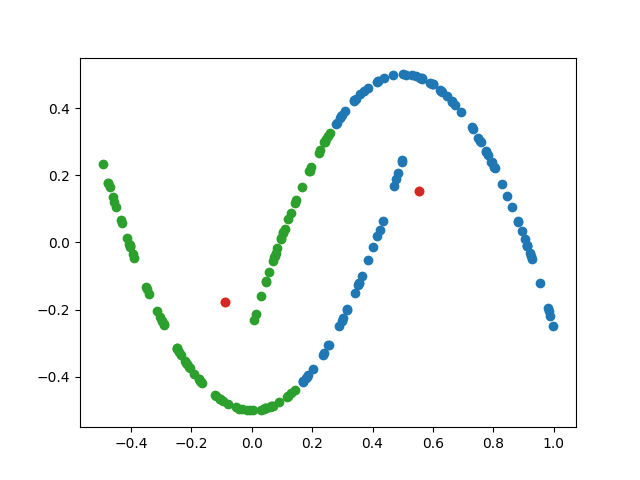
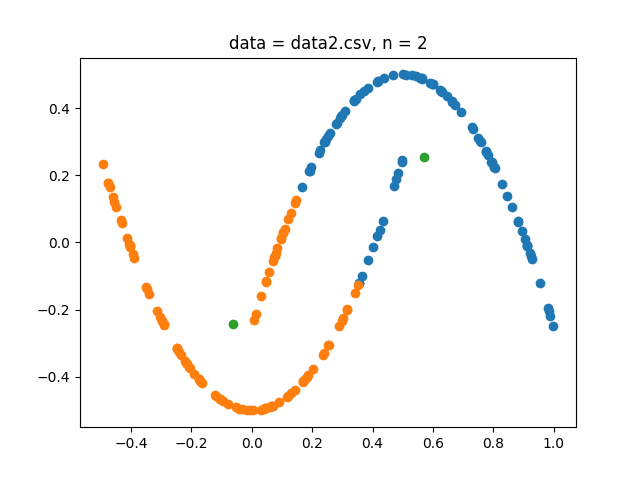
ver 2.1 fixed

diff --git a/ex05/k_okamori/ex05_mfcc_okamori.py b/ex05/k_okamori/ex05_mfcc_okamori.py
@@ -99,11 +99,12 @@ class Mfcc:
 
     # 結果のプロット
     def draw_spec(self):
-        self.fig = plt.figure(figsize=(6.4, 6.4))  # グラフ領域の確保
-        ax1 = self.fig.add_subplot(411)  # Original Signal
-        ax2 = self.fig.add_subplot(412)  # MFCC
-        ax3 = self.fig.add_subplot(413)  # dMFCC
-        ax4 = self.fig.add_subplot(414)  # ddMFCC
+        self.fig = plt.figure(figsize=(8.0, 10.0))  # グラフ領域の確保
+        ax1 = self.fig.add_subplot(511)  # Original Signal
+        ax2 = self.fig.add_subplot(512)  # Mell Filter Bank
+        ax3 = self.fig.add_subplot(513)  # MFCC
+        ax4 = self.fig.add_subplot(514)  # dMFCC
+        ax5 = self.fig.add_subplot(515)  # ddMFCC
         wave_length = len(self.wave) // self.samplerate  # 音源データの長さ
 
         im1 = ax1.imshow(self.spec, extent=[0, wave_length, 0, self.samplerate / 2],
@@ -113,26 +114,32 @@ class Mfcc:
         ax1.set_xlabel("time[s]")         # x軸ラベルの追加
         ax1.set_ylabel("Frequency[kHz]")  # y軸ラベルの追加
 
-        im2 = ax2.imshow(self.mfcc, extent=[0, wave_length, 0, MFCC_DIM],
-                         cmap="rainbow", aspect="auto", origin="lower")  # スペクトログラムの描画
-        self.fig.colorbar(im2, ax=ax2)
-        ax2.set_title("MFCC")             # タイトルの追加
-        ax2.set_xlabel("time[s]")         # x軸ラベルの追加
-        ax2.set_ylabel("MFCC")            # y軸ラベルの追加
+        for i in range(self.mel_filter_bank.shape[0]):
+            ax2.plot(np.arange(0, self.samplerate // 2, self.samplerate // 2 /
+                     self.mel_filter_bank.shape[1]), self.mel_filter_bank[i])  # プロット
+        ax2.set_title("Mel Filter Bank")   # タイトルの追加
+        ax2.set_xlabel("Frequency[Hz]")         # x軸ラベルの追加
 
-        im3 = ax3.imshow(self.d_mfcc, extent=[0, wave_length, 0, MFCC_DIM],
+        im3 = ax3.imshow(self.mfcc, extent=[0, wave_length, 0, MFCC_DIM],
                          cmap="rainbow", aspect="auto", origin="lower")  # スペクトログラムの描画
         self.fig.colorbar(im3, ax=ax3)
-        ax3.set_title("ΔMFCC")            # タイトルの追加
+        ax3.set_title("MFCC")             # タイトルの追加
         ax3.set_xlabel("time[s]")         # x軸ラベルの追加
-        ax3.set_ylabel("ΔMFCC")           # y軸ラベルの追加
+        ax3.set_ylabel("MFCC")            # y軸ラベルの追加
 
-        im4 = ax4.imshow(self.dd_mfcc, extent=[0, wave_length, 0, MFCC_DIM],
+        im4 = ax4.imshow(self.d_mfcc, extent=[0, wave_length, 0, MFCC_DIM],
                          cmap="rainbow", aspect="auto", origin="lower")  # スペクトログラムの描画
         self.fig.colorbar(im4, ax=ax4)
-        ax4.set_title("ΔΔMFCC")           # タイトルの追加
+        ax4.set_title("ΔMFCC")            # タイトルの追加
         ax4.set_xlabel("time[s]")         # x軸ラベルの追加
-        ax4.set_ylabel("ΔΔMFCC")          # y軸ラベルの追加
+        ax4.set_ylabel("ΔMFCC")           # y軸ラベルの追加
+
+        im5 = ax5.imshow(self.dd_mfcc, extent=[0, wave_length, 0, MFCC_DIM],
+                         cmap="rainbow", aspect="auto", origin="lower")  # スペクトログラムの描画
+        self.fig.colorbar(im5, ax=ax5)
+        ax5.set_title("ΔΔMFCC")           # タイトルの追加
+        ax5.set_xlabel("time[s]")         # x軸ラベルの追加
+        ax5.set_ylabel("ΔΔMFCC")          # y軸ラベルの追加
 
         self.fig.tight_layout()  # レイアウト調整
 

diff --git a/ex05/k_okamori/ex05_k_means_okamori.py b/ex05/k_okamori/ex05_k_means_okamori.py
@@ -2,6 +2,7 @@ import numpy as np
 import matplotlib.pyplot as plt
 from mpl_toolkits.mplot3d import Axes3D
 import sys
+import argparse
 
 
 class ClusterByKmeans:  # k-means法を実装するクラス
@@ -10,7 +11,8 @@ class ClusterByKmeans:  # k-means法を実装するクラス
     #   data: csvデータ
     #   n_divide: 分割数
     #   n_trial: 初期値を決める試行回数
-    def __init__(self, data, n_divide, n_trial):
+    def __init__(self, fname, data, n_divide, n_trial):
+        self.fname = fname
         self.data = data
         self.n_data = self.data.shape[0]  # データ数
         self.n_divide = n_divide
@@ -52,7 +54,7 @@ class ClusterByKmeans:  # k-means法を実装するクラス
         # 重心が変化しなくなるまで続ける
         while is_changed:
             is_changed = False
-            default_previous = self.default  # 前回の重心を記録
+            default_previous = np.copy(self.default)  # 前回の重心を記録
 
             # 最も近い重心のタグをつける
             for i in range(self.n_data):
@@ -84,6 +86,8 @@ class ClusterByKmeans:  # k-means法を実装するクラス
         # 重心の描画
         ax.scatter(self.default[:, 0], self.default[:, 1])
 
+        ax.set_title(f"data = {self.fname}, n = {self.n_divide}")  # タイトルの追加
+
 
 class ClusterByKmeans3D(ClusterByKmeans):  # k-means法を実装するクラス(3次元)
 
@@ -100,28 +104,38 @@ class ClusterByKmeans3D(ClusterByKmeans):  # k-means法を実装するクラス(
         # 重心の描画
         ax.scatter(self.default[:, 0], self.default[:, 1], self.default[:, 2])
 
+        ax.set_title(f"data = {self.fname}, n = {self.n_divide}")  # タイトルの追加
+
 # main
 
 
-def main():
-    csv = sys.argv[1]  # 元データ (CSV)
-    n_divide = int(sys.argv[2])  # 分割する個数
-    n_trial = int(sys.argv[3])  # 初期値決定の試行回数
+def main(args):
+    csv = args.fname  # 元データ (CSV)
+    n_divide = args.n_divide  # 分割する個数
+    n_trial = args.n_trial  # 初期値決定の試行回数
 
     data = np.loadtxt(fname=csv, dtype="float",
                       delimiter=',', skiprows=1)  # csv の読み込み
 
     if data.shape[1] == 2:  # 2次元の場合
-        kmeans = ClusterByKmeans(data, n_divide, n_trial)
+        kmeans = ClusterByKmeans(csv, data, n_divide, n_trial)
     elif data.shape[1] == 3:  # 3次元の場合
-        kmeans = ClusterByKmeans3D(data, n_divide, n_trial)
+        kmeans = ClusterByKmeans3D(csv, data, n_divide, n_trial)
+    else:
+        print(f"対応していないデータ形式です．")  # エラー表示
+        sys.exit(1)  # プログラム終了
 
-    if "kmeans" in locals():
-        kmeans.set_default()  # 初期値の決定
-        kmeans.divide_cluster()  # クラスタ分割
-        kmeans.plot()  # 結果のプロット
-        plt.savefig("ex05_k_means(" + csv + ").png")  # 出力ファイルの保存
+    kmeans.set_default()  # 初期値の決定
+    kmeans.divide_cluster()  # クラスタ分割
+    kmeans.plot()  # 結果のプロット
+    plt.savefig(f"ex05_k_means({csv}).png")  # 出力ファイルの保存
 
 
 if __name__ == "__main__":
-    main()
+    parser = argparse.ArgumentParser(description="k-means 法によるクラスタ分割")
+    parser.add_argument("fname", type=str, help="ファイル名")
+    parser.add_argument("n_divide", type=int, help="分割する個数")
+    parser.add_argument("n_trial", type=int, help="初期値決定の試行回数")
+    args = parser.parse_args()
+
+    main(args)
